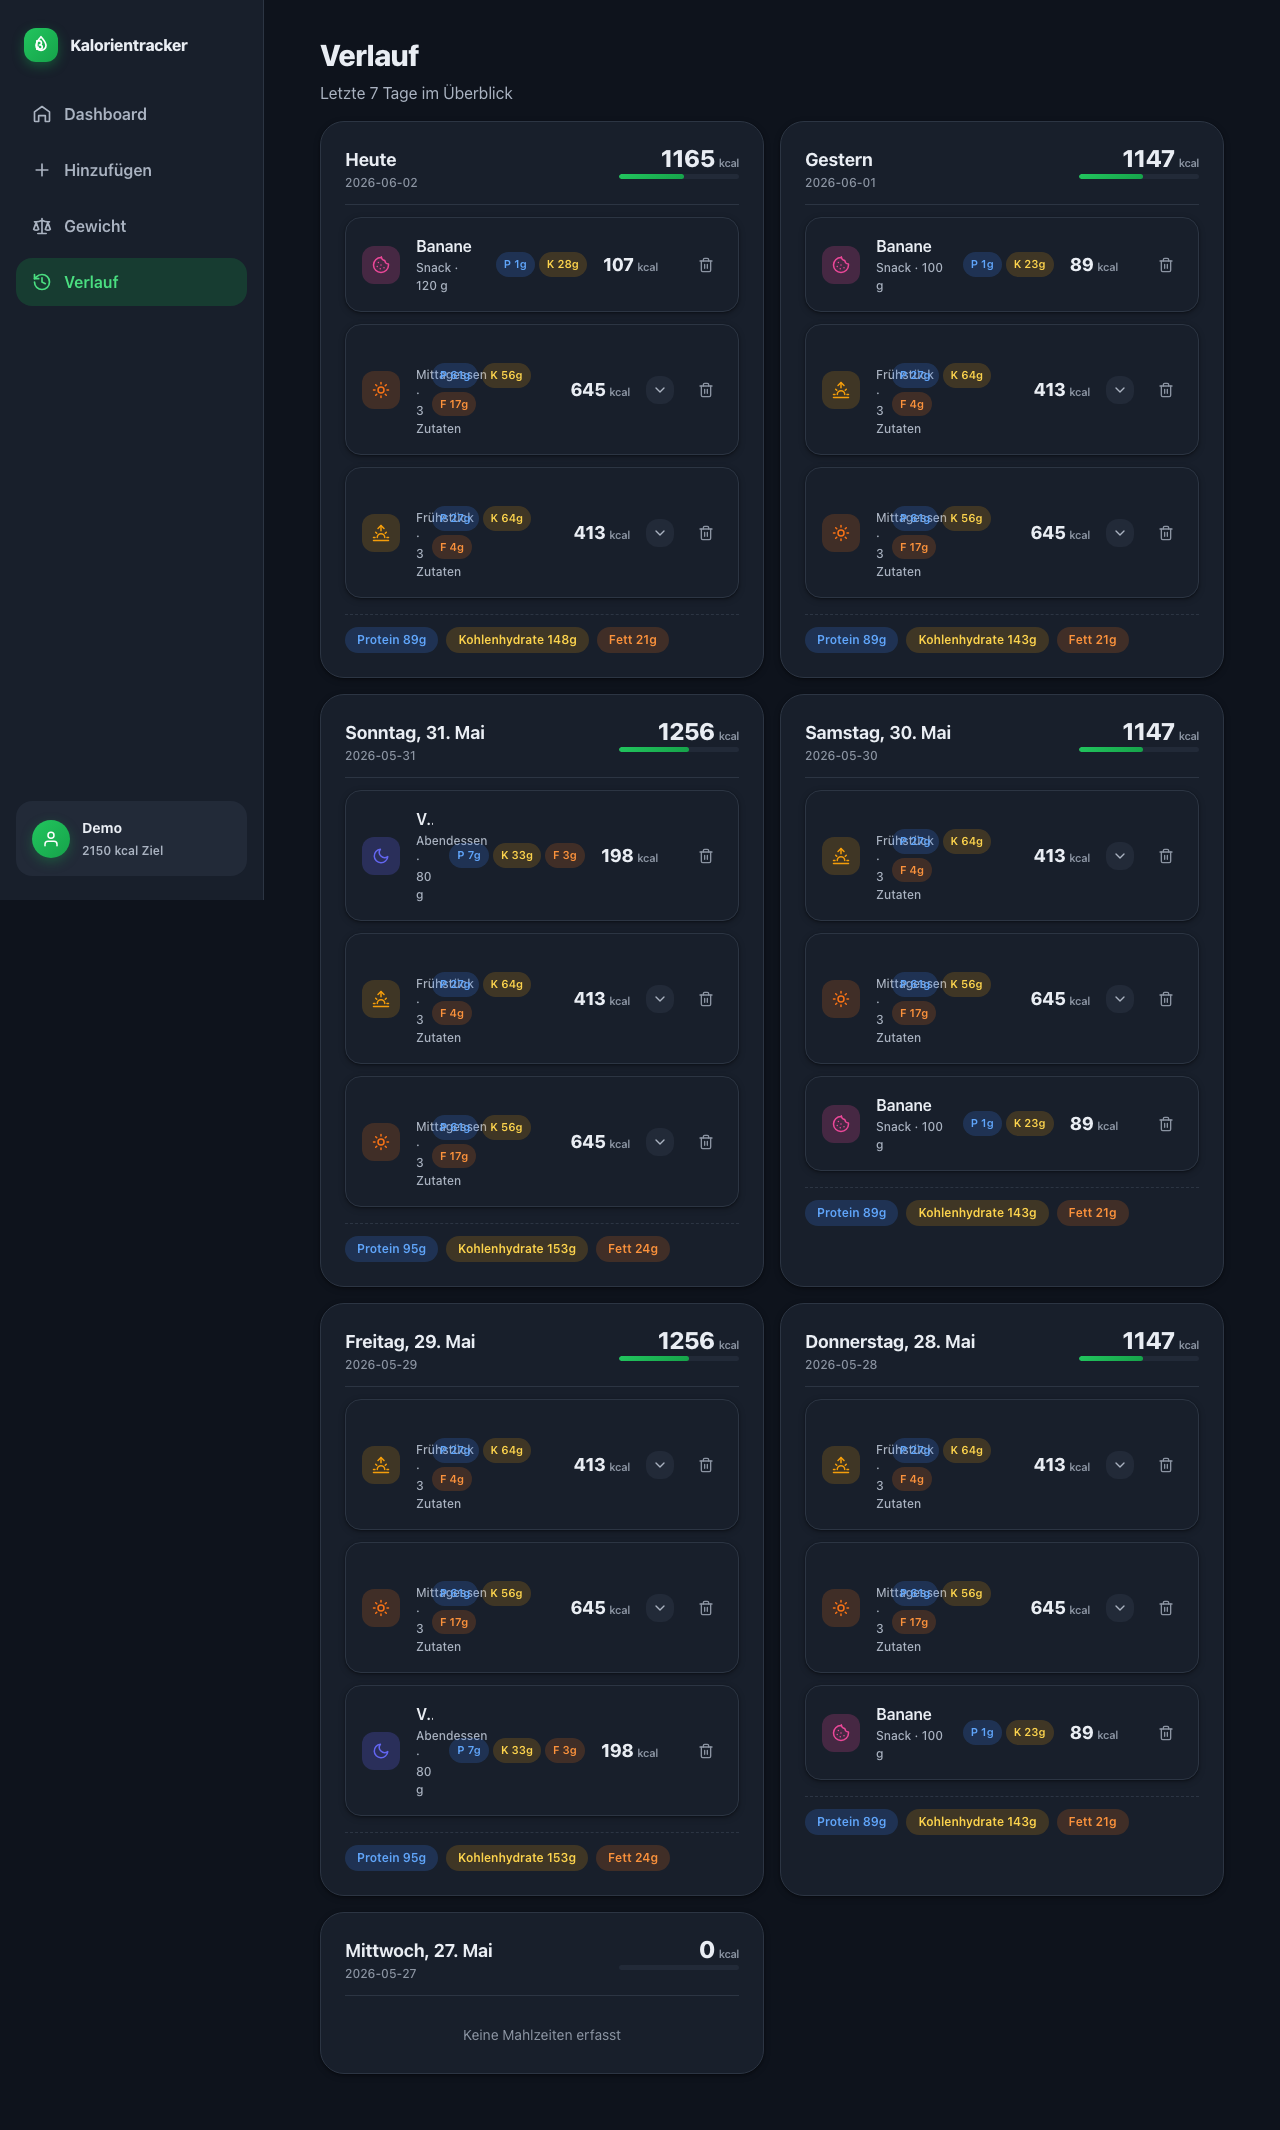
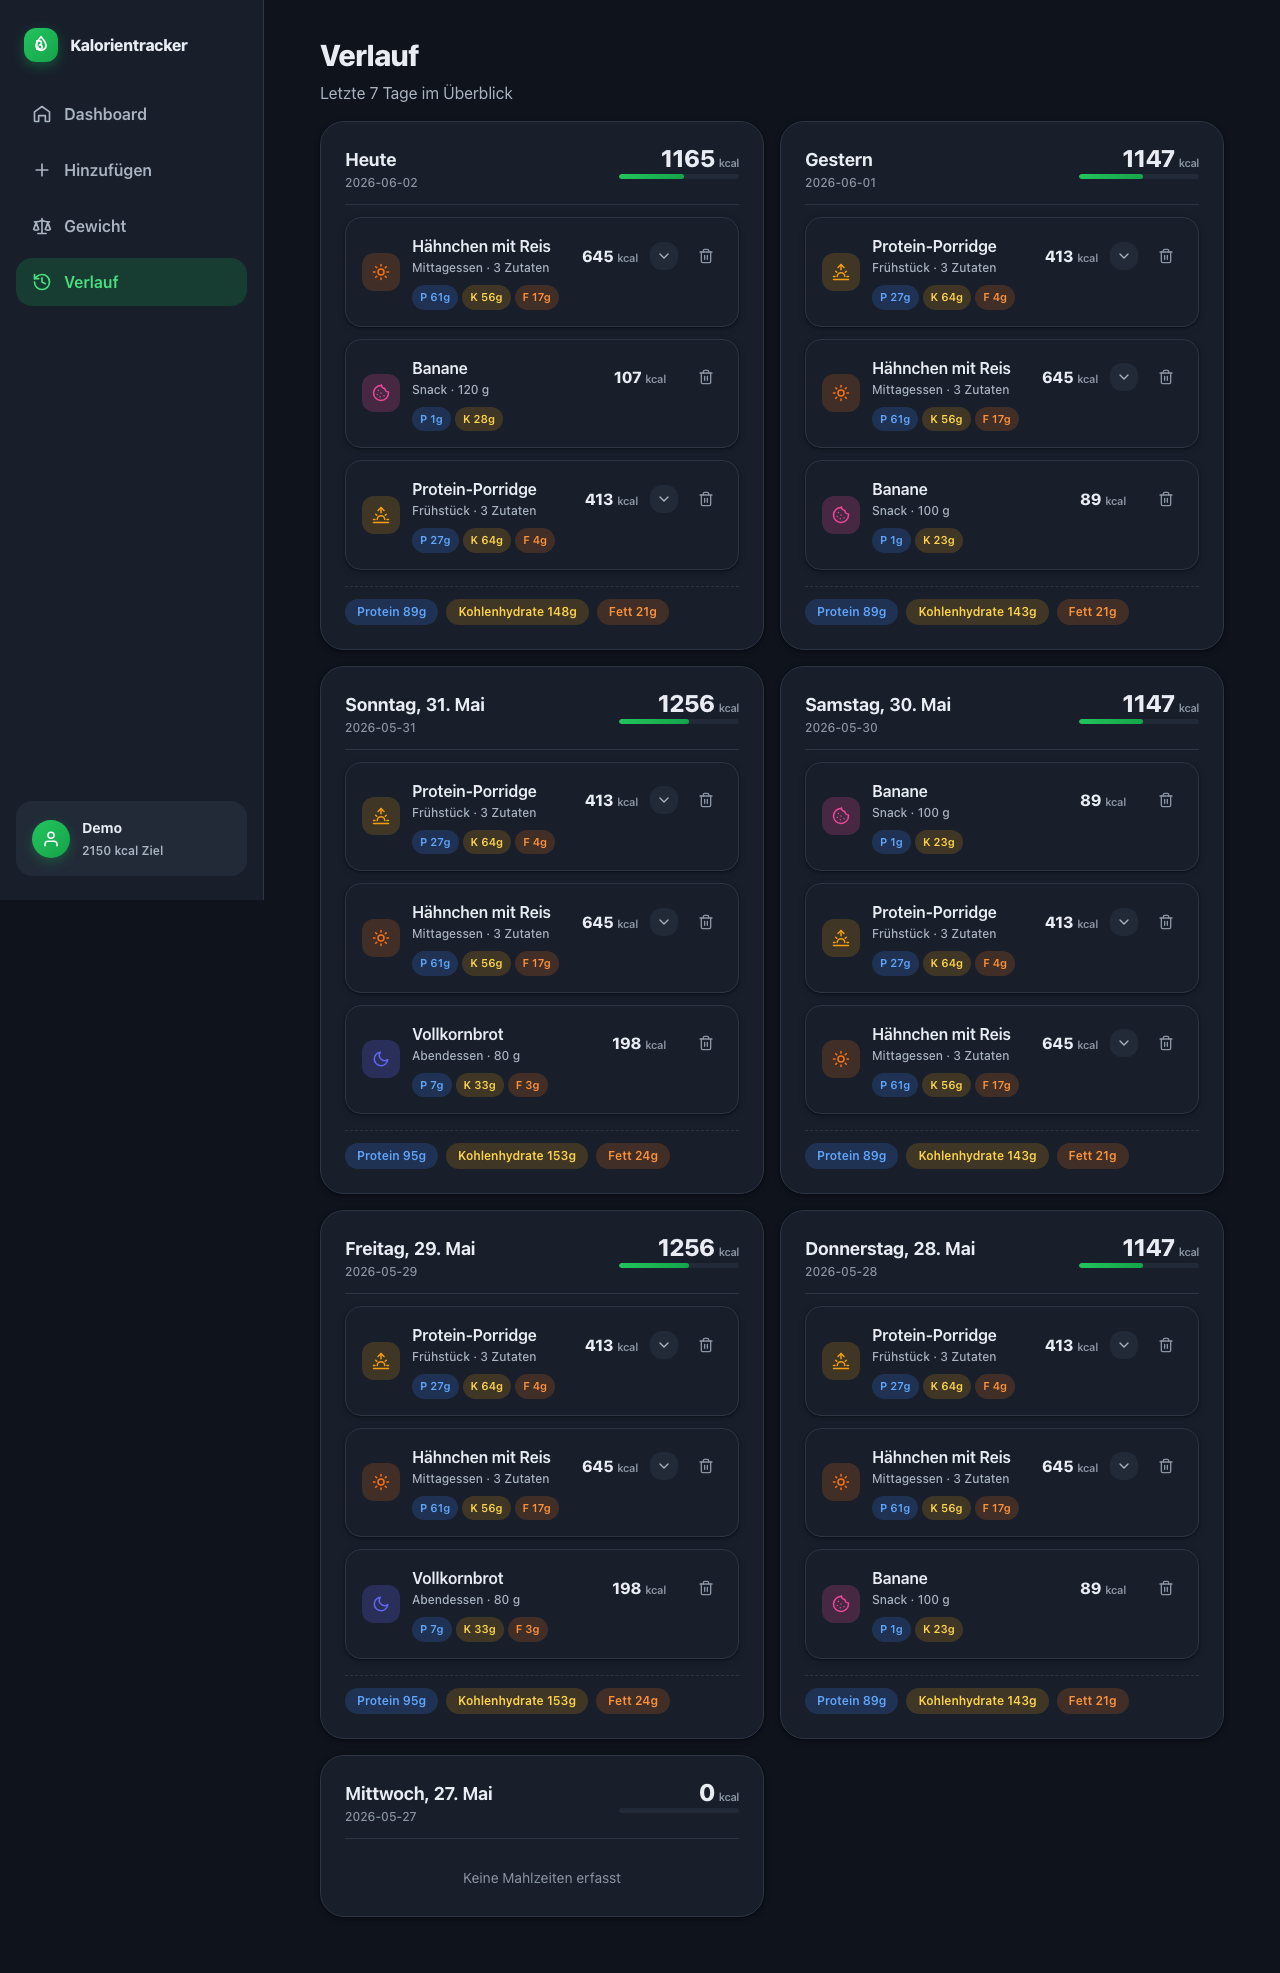
Fix meal card macro overlap in narrow layouts

diff --git a/kalorientracker/src/lib/components/MealCard.svelte b/kalorientracker/src/lib/components/MealCard.svelte
@@ -112,6 +112,9 @@
 		margin-bottom: var(--space-3);
 		box-shadow: var(--shadow-sm);
 		transition: border-color 0.15s, box-shadow 0.15s;
+		/* Layout richtet sich nach der EIGENEN Kartenbreite (nicht dem Viewport),
+		   damit Makros in schmalen 2-Spalten-Rastern nicht mit dem Text kollidieren. */
+		container-type: inline-size;
 	}
 
 	.meal-card:hover {
@@ -166,6 +169,9 @@
 		font-size: var(--text-caption);
 		color: var(--text-muted);
 		font-weight: var(--weight-medium);
+		white-space: nowrap;
+		overflow: hidden;
+		text-overflow: ellipsis;
 	}
 
 	.macros {
@@ -299,7 +305,9 @@
 		text-align: right;
 	}
 
-	@media (min-width: 900px) {
+	/* Einzeilige Anordnung erst, wenn die KARTE breit genug ist (~520px) –
+	   sonst bleiben die Makros in einer eigenen Zeile unter dem Text. */
+	@container (min-width: 520px) {
 		.meal-head {
 			grid-template-columns: auto 1fr auto auto auto auto;
 			grid-template-areas: 'icon details macros calories expand delete';